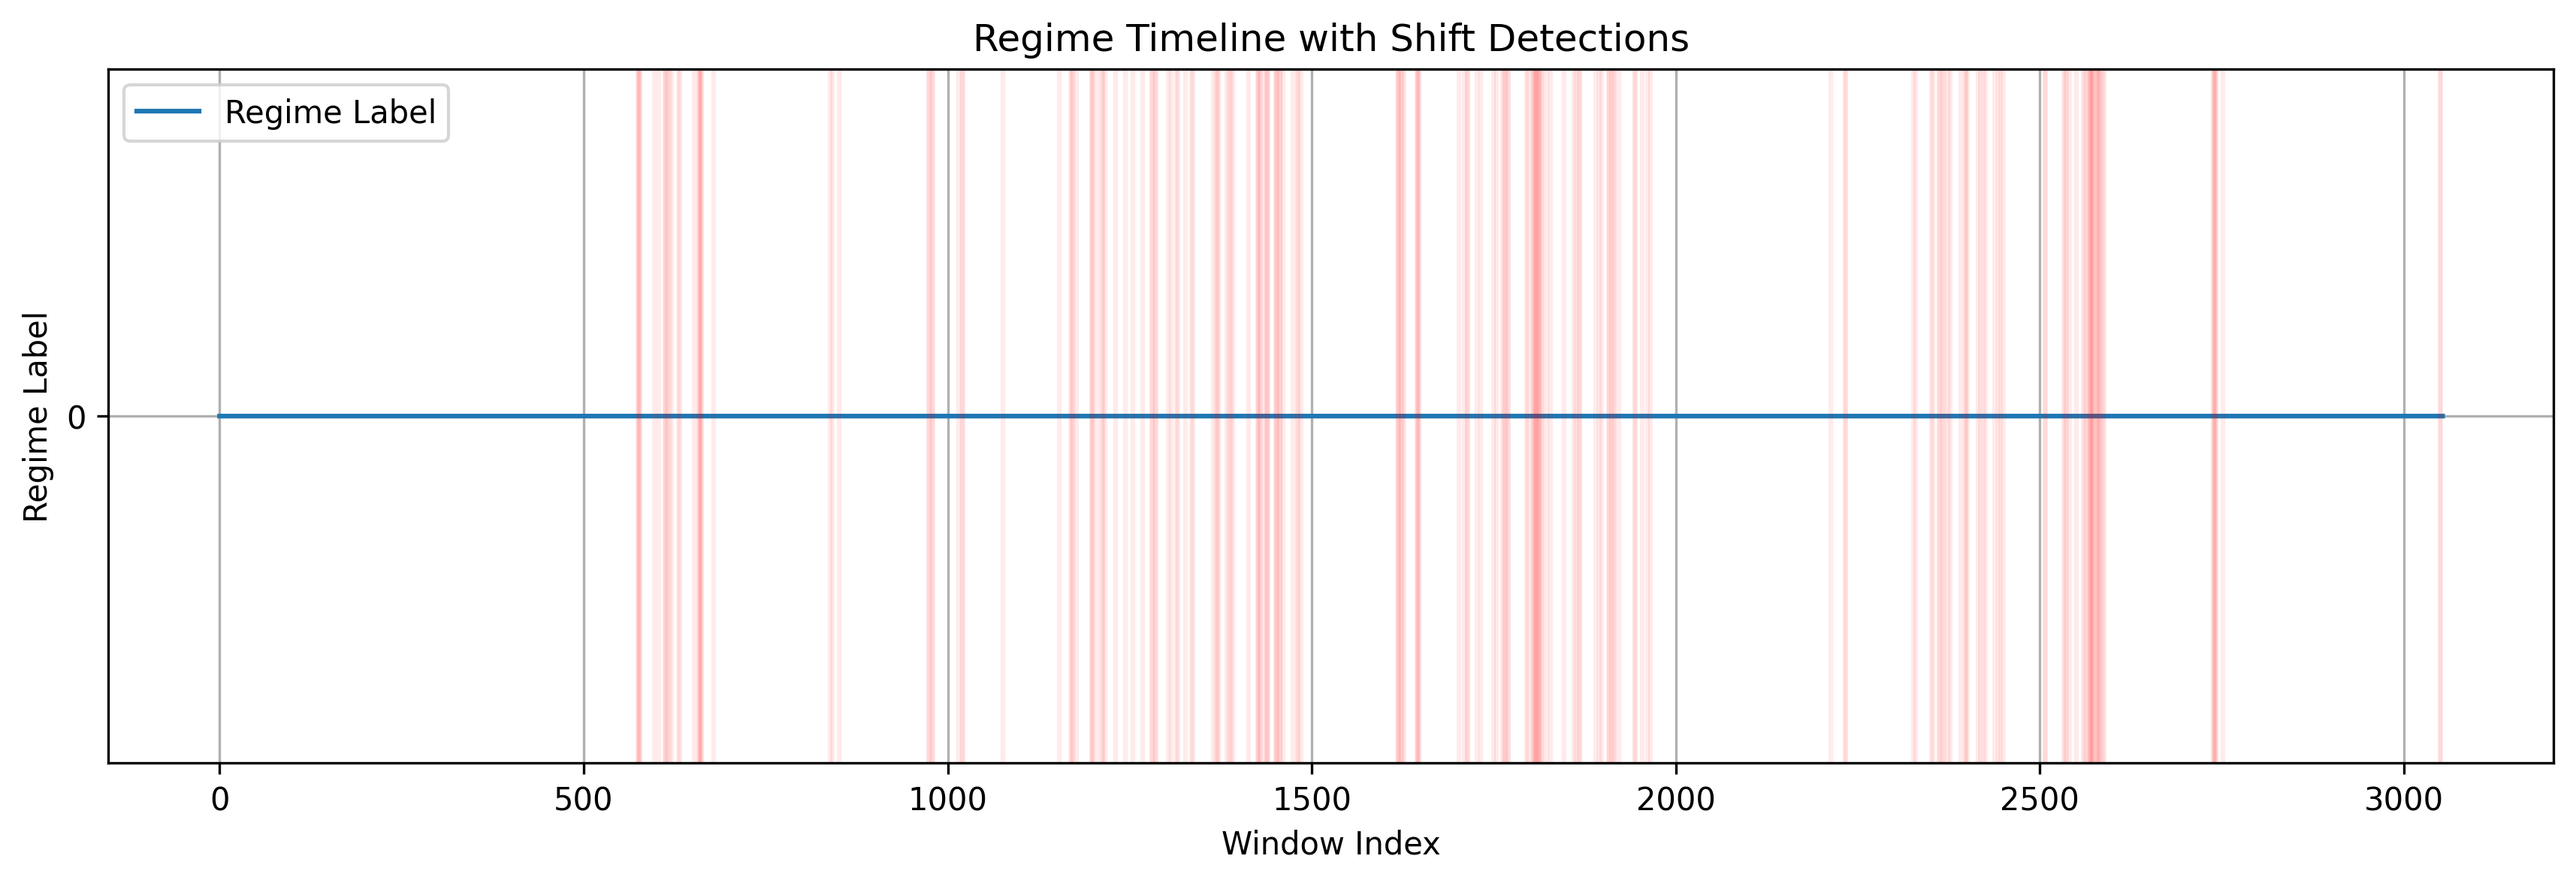
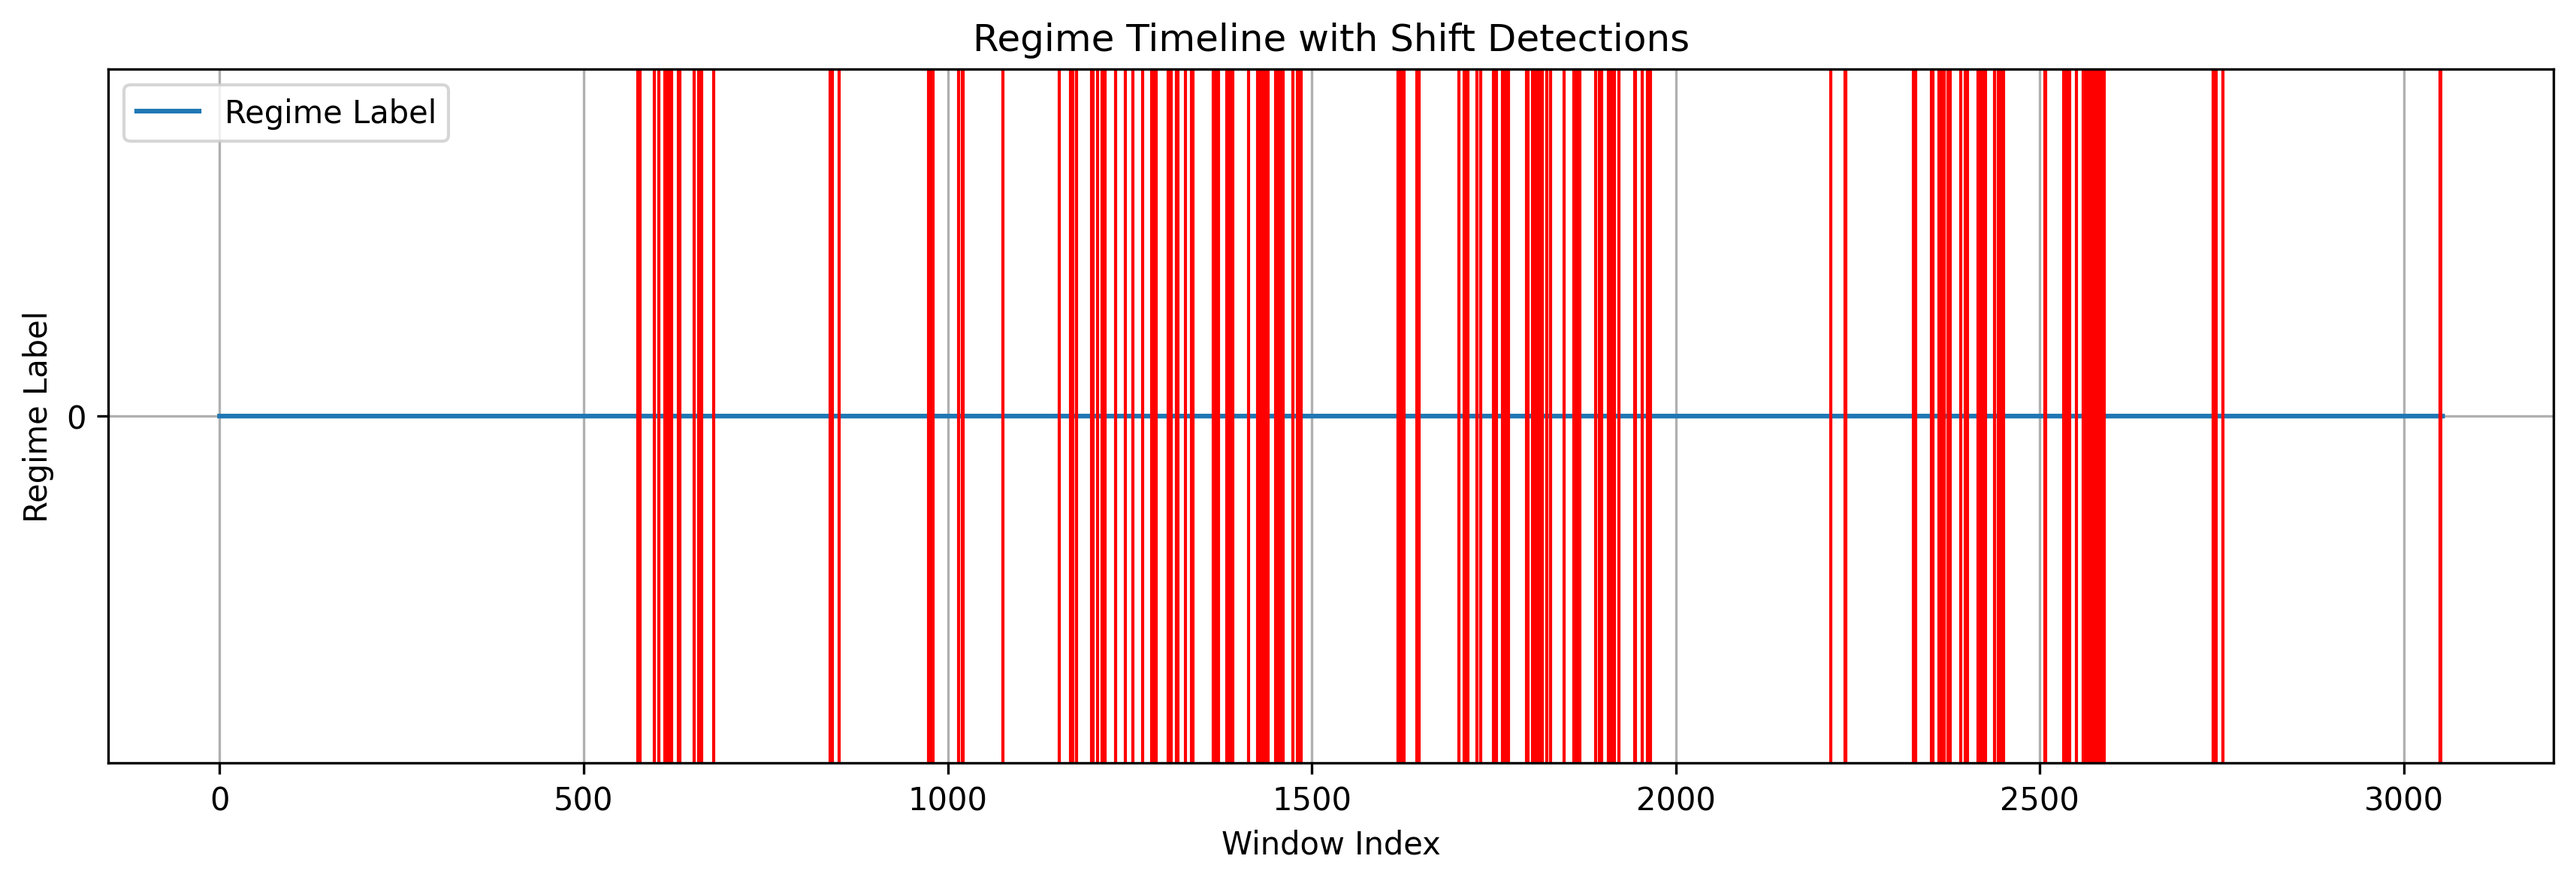
updated graph

diff --git a/dashboard/app.py b/dashboard/app.py
@@ -181,7 +181,7 @@ def plot_regime_shifts(regime_labels, shift_indices, sample_idx=None):
     ax.plot(regime_labels, drawstyle="steps-mid", label="Regime")
 
     for idx in shift_indices:
-        ax.axvline(idx, color="red", alpha=0.08)
+        plt.axvline(idx, color="red", linewidth=1)
 
     if sample_idx is not None:
         ax.axvline(sample_idx, color="black", linestyle="--", alpha=0.9, label="Selected Window")

diff --git a/src/visualization/plot_regimes.py b/src/visualization/plot_regimes.py
@@ -10,7 +10,7 @@ def main():
     plt.plot(regime_labels, drawstyle="steps-mid", label="Regime Label")
 
     for idx in shift_indices:
-        plt.axvline(idx, color="red", alpha=0.08)
+        plt.axvline(idx, color="red", linewidth=1)
 
     plt.title("Regime Timeline with Shift Detections")
     plt.xlabel("Window Index")
